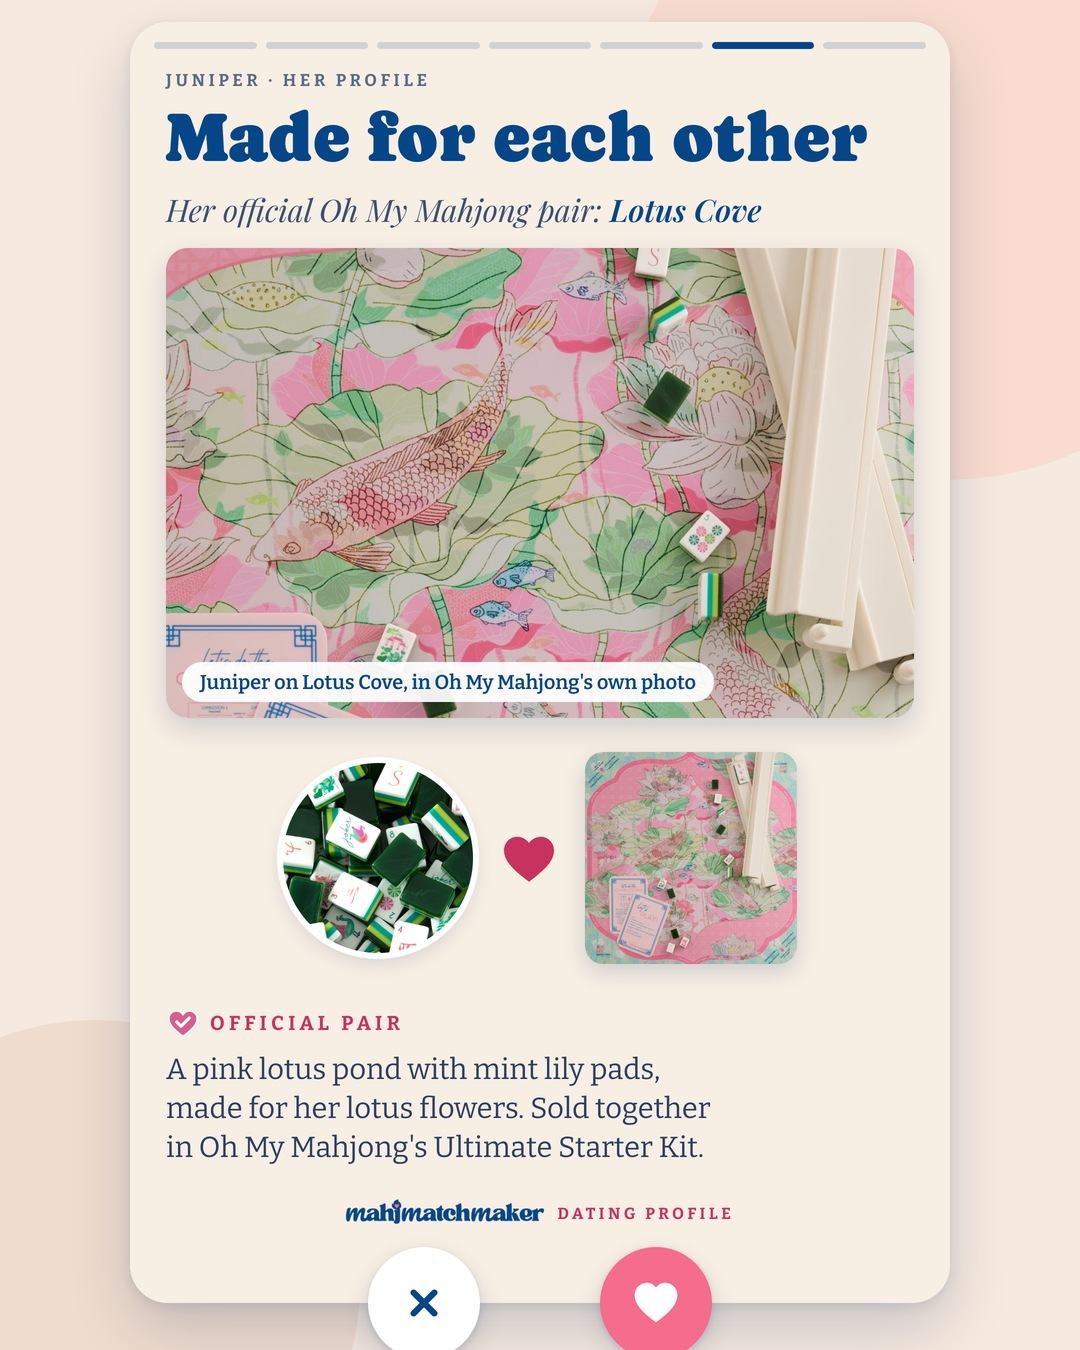
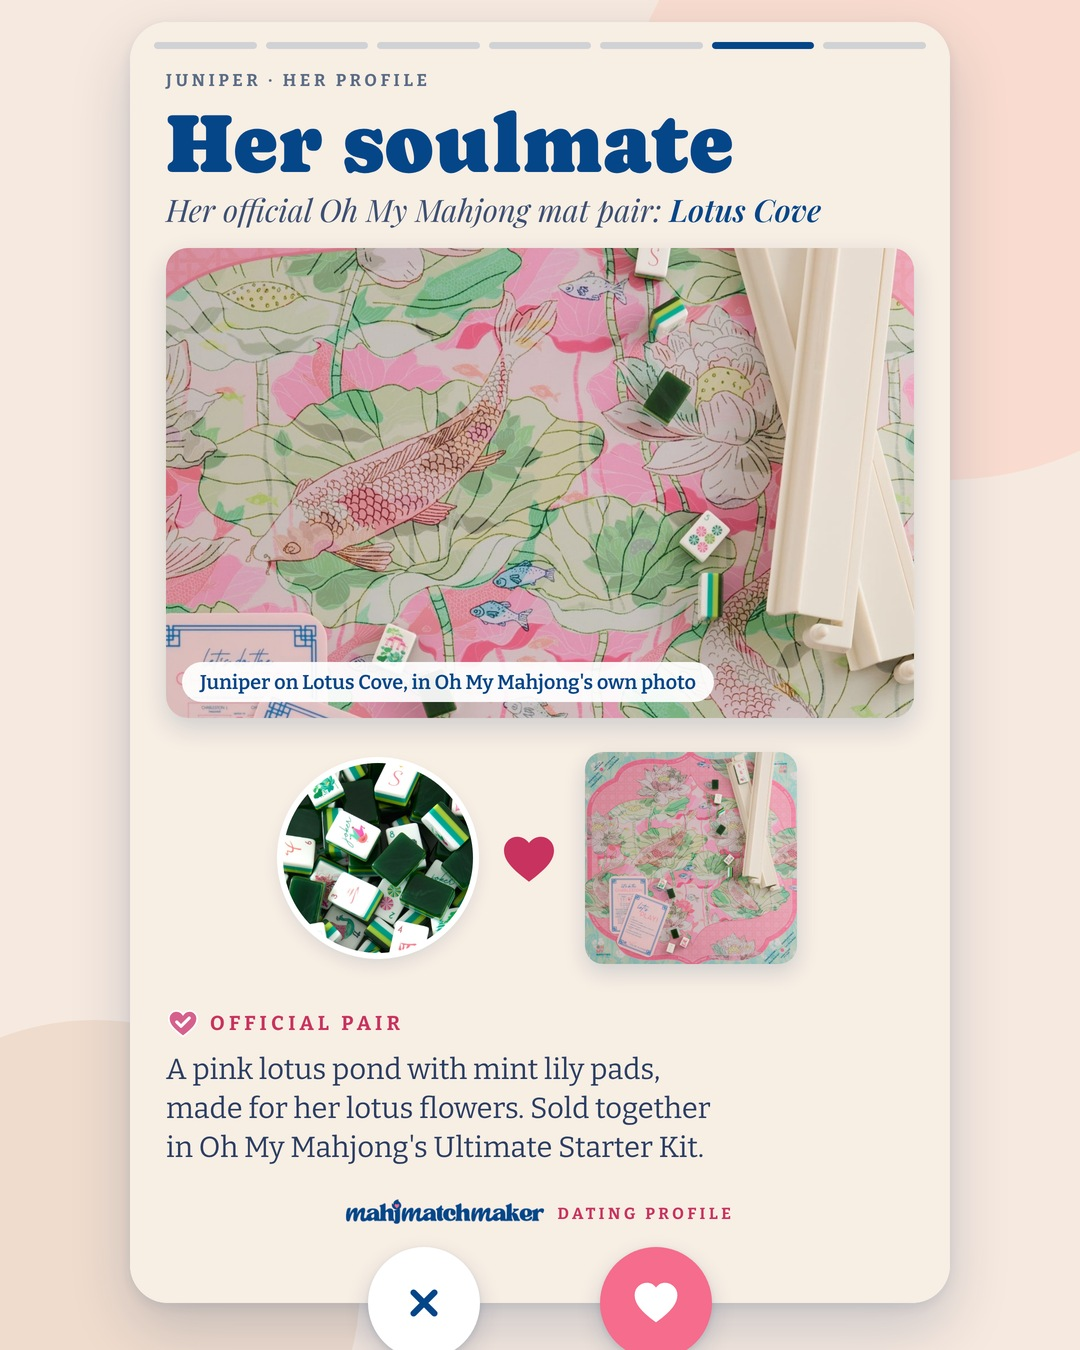
Juniper profile card 6: 'Her soulmate' / 'Her official Oh My Mahjong mat pair' (Tiffany Nov 10 3:49pm)
Claude-Session: https://claude.ai/code/session_01QxwYQtmWcAr4s5uYJYP3mA

Changed region(s): [[0.1528, 0.0622, 0.825, 0.1867]]

diff --git a/scripts/social/tileprofile/intro_framed.py b/scripts/social/tileprofile/intro_framed.py
@@ -125,8 +125,8 @@ s5 = (hdr(("Racks she's into", 80)) +
 # ---- slide 6: made for each other (text UNDER the photo row, Tiffany Oct 20)
 pr = P['omm_launch']['pair']
 cap = pr.get('together_caption') or f"{P['name']} on {pr['mat']}, in {pr['brand']}’s own photo"
-s6 = (hdr(('Made for each other', 70)) +
-      f'{ab(L, 166, "", W)}<div class="pf" style="font-size:31px;color:#3c4f73">Her official {e(pr["brand"])} pair: <b style="font-weight:600;color:var(--navy)">{e(pr["mat"])}</b></div></div>'
+s6 = (hdr(('Her soulmate', 84)) +   # Tiffany Nov 10 3:49pm: fits 'Her colors / Her faces / Racks she's into'
+      f'{ab(L, 166, "", W)}<div class="pf" style="font-size:31px;color:#3c4f73">Her official {e(pr["brand"])} mat pair: <b style="font-weight:600;color:var(--navy)">{e(pr["mat"])}</b></div></div>'
       f'<div style="position:absolute;left:{L}px;top:226px;width:{W}px;height:470px;border-radius:22px;background:url({url(pr["together"])}) 52% 42%/150%;box-shadow:0 10px 26px rgba(6,40,90,.16)">'
       f'<div style="position:absolute;left:16px;bottom:16px;background:rgba(255,255,255,.93);border-radius:99px;padding:8px 18px;font:600 20px Bit;color:var(--navy)">{e(cap)}</div></div>'
       f'{ab(0, 730, "display:flex;justify-content:center;align-items:center;gap:26px", CW)}'
